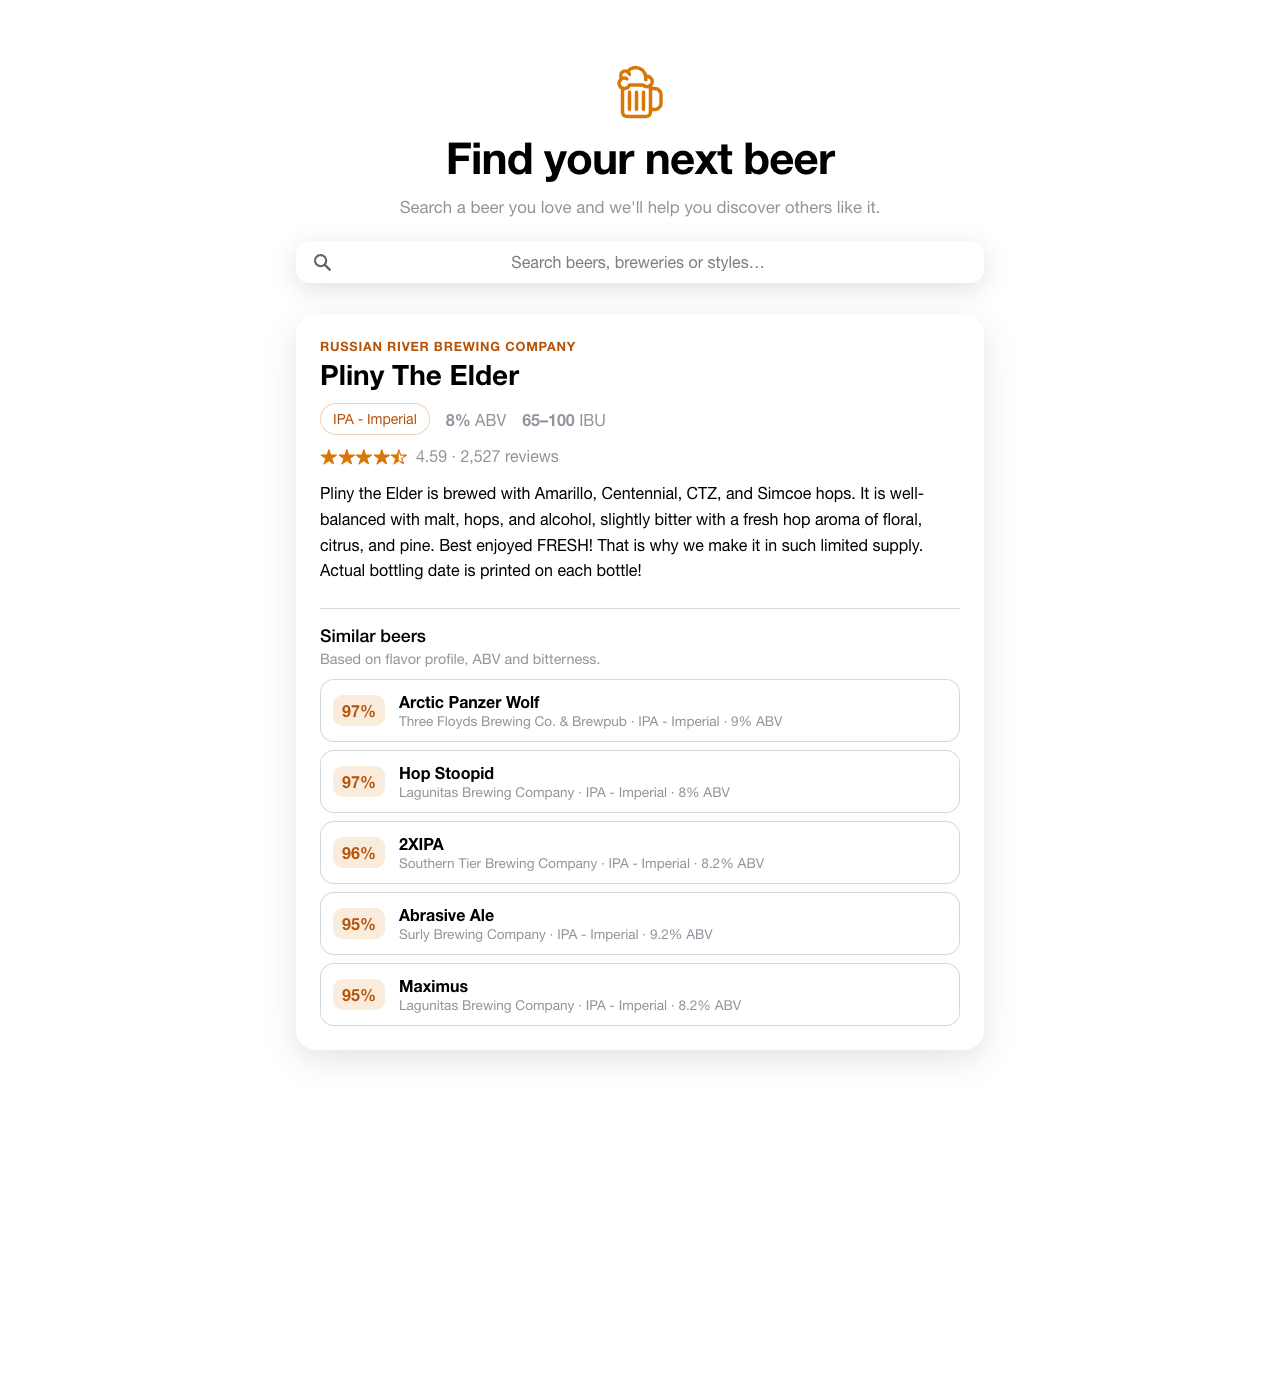
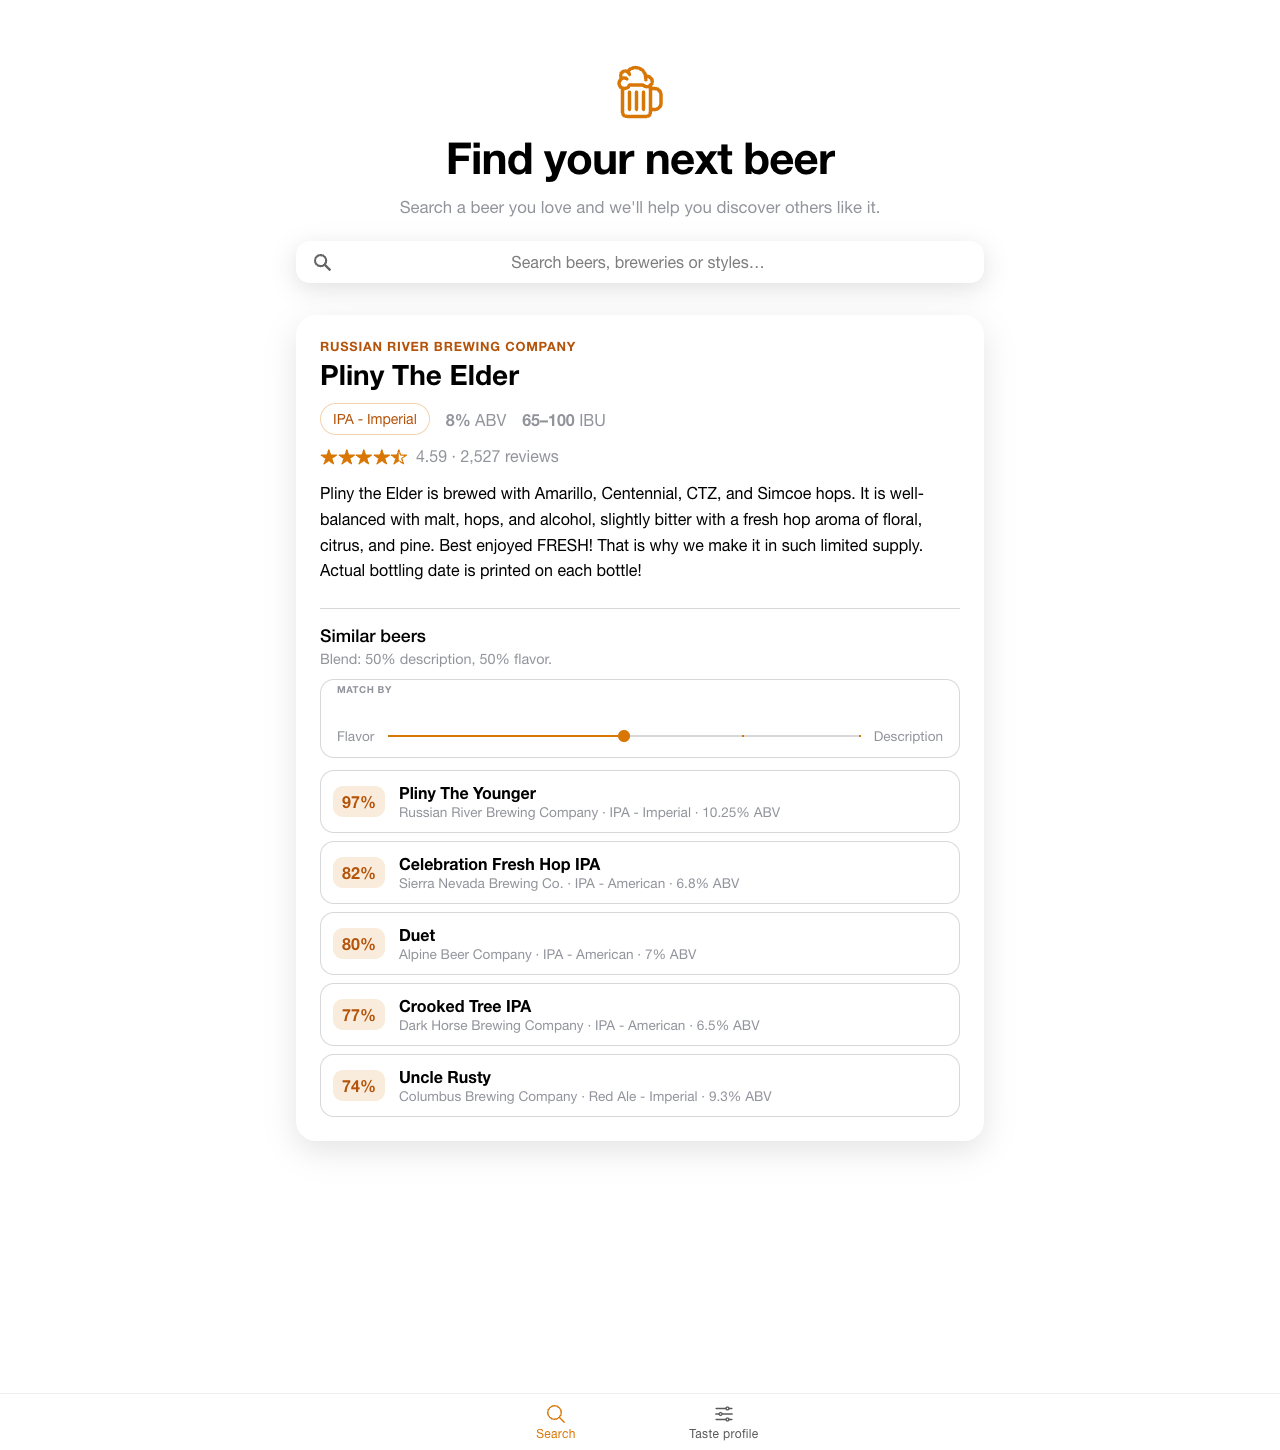
Prepare the live demo: GitHub Pages deploy, app title, README refresh (#7)
- Deploy workflow: on every push to main, run the unit tests, build with
  base /BeerRecommender/ and publish to GitHub Pages (404.html serves
  deep links like /taste).
- Vite base and router basename come from BASE_PATH, so local dev at /
  is unchanged.
- Name the app BeerRecommender in the tab title and manifest.
- README: live demo link, new screenshots (search, blended
  recommendations, taste profile), updated features and structure,
  dataset credit, and notebook setup via requirements.txt.

diff --git a/beerRecommenderApp/index.html b/beerRecommenderApp/index.html
@@ -2,9 +2,8 @@
 <html lang="en">
   <head>
     <meta charset="utf-8" />
-    <title>Ionic App</title>
-    
-    <base href="/" />
+    <title>BeerRecommender</title>
+    <meta name="description" content="Find your next beer: similar-beer recommendations by flavor, ABV and bitterness, plus a taste-profile explorer." />
     
     <meta name="color-scheme" content="light dark" />
     <meta
@@ -19,8 +18,9 @@
     <link rel="shortcut icon" type="image/png" href="/favicon.png" />
     
     <!-- add to homescreen for ios -->
+    <meta name="mobile-web-app-capable" content="yes" />
     <meta name="apple-mobile-web-app-capable" content="yes" />
-    <meta name="apple-mobile-web-app-title" content="Ionic App" />
+    <meta name="apple-mobile-web-app-title" content="BeerRecommender" />
     <meta name="apple-mobile-web-app-status-bar-style" content="black" />
   </head>
   <body>

diff --git a/beerRecommenderApp/vite.config.ts b/beerRecommenderApp/vite.config.ts
@@ -4,6 +4,8 @@ import { defineConfig } from 'vite'
 
 // https://vitejs.dev/config/
 export default defineConfig({
+  // GitHub Pages serves the app from /BeerRecommender/; the deploy workflow sets BASE_PATH.
+  base: process.env.BASE_PATH ?? '/',
   plugins: [
     react(),
     legacy()

diff --git a/beerRecommenderApp/src/App.tsx b/beerRecommenderApp/src/App.tsx
@@ -37,7 +37,7 @@ setupIonicReact();
 
 const App: React.FC = () => (
   <IonApp>
-    <IonReactRouter>
+    <IonReactRouter basename={import.meta.env.BASE_URL}>
       <IonTabs>
         <IonRouterOutlet>
           <Route exact path="/home">

diff --git a/README.md b/README.md
@@ -1,21 +1,27 @@
 # Beer Recommender
 
-Search for a beer you like and get recommendations for similar beers based on flavor profile, ABV and bitterness. The project has two parts: a Jupyter notebook for data exploration and recommender experiments, and an Ionic + React app that lets you search the beers and see recommendations.
+Search for a beer you like and get recommendations for similar beers based on flavor profile, ABV and bitterness, or describe what you're in the mood for and see the beers that fit. The project has two parts: a Jupyter notebook for data exploration and recommender experiments, and an Ionic + React app that runs the recommenders in the browser.
+
+**Live demo: https://martineza96.github.io/BeerRecommender/**
 
 ## Screenshots
 
-| Home | Search | Recommendations |
+| Search | Recommendations | Taste profile |
 |---|---|---|
-| ![Home page with search bar and popular beers](docs/screenshots/home.png) | ![Searching "coors" shows every Coors beer](docs/screenshots/search.png) | ![Pliny The Elder with five similar beers](docs/screenshots/recommendations.png) |
+| ![Searching "coors" shows every Coors beer](docs/screenshots/search.png) | ![Pliny The Elder with five similar beers, blending flavor and description matches](docs/screenshots/recommendations.png) | ![Taste profile with Strength and Bitterness turned up, showing strong, bitter beers](docs/screenshots/taste-profile.png) |
 
 ## Features
 
 - **Forgiving search** across beer name, brewery and style. Partial words work ("blue mo"), accents are ignored ("munster" finds Münster), and common spellings match ("bud lite" finds Bud Light). The most-reviewed beers are listed first.
 - **Beer details**: style, ABV, IBU range, rating and description.
 - **Similar beers**: the 5 closest beers by cosine similarity on standardized ABV, IBU and 11 flavor-profile features. It's computed in the browser and gives the same results as the notebook.
-- Popular-beer shortcuts, keyboard navigation, and light and dark themes.
+- **Match by flavor or description**: a slider blends the flavor recommender with a description recommender (TF-IDF on each beer's description, exported from the notebook's method by `scripts/export_description_similarity.py`). Beers without a description fall back to flavor matches.
+- **Taste profile**: five sliders (Strength, Bitterness, Body, Sweetness, Sourness) and the best-matching beers update as you drag. Sliders work in percentiles, so the middle is a typical beer; any feature can be set to "Doesn't matter".
+- Popular-beer shortcuts, keyboard navigation, a Search / Taste profile tab bar, and light and dark themes.
 
 ## Data
+
+The beer data comes from the *Beer Profile and Ratings Data Set* on Kaggle.
 
 | File | Contents |
 |---|---|
@@ -23,18 +29,25 @@ Search for a beer you like and get recommendations for similar beers based on fl
 | `Beer Name Fuzzy Match List.csv`, `Brewery Name Fuzzy Match List.csv` | Name mappings used when matching beers and breweries across sources |
 | `Beer Descriptors Simplified.xlsx` | Vocabulary of flavor descriptor words |
 | `beerRecommenderApp/src/data/beersDF.json` | The dataset exported from the notebook for use in the app |
+| `beerRecommenderApp/src/data/descriptionNeighbors.json` | Top 10 description (TF-IDF) neighbors per beer, generated by `scripts/export_description_similarity.py` |
 
 ## Project structure
 
 ```
-BeerEDA.ipynb                 EDA, TF-IDF description recommender, feature recommender
-beerRecommenderApp/           Ionic 7 + React 18 + Vite + TypeScript app
-  src/data/beers.ts           Typed, cleaned beer data
-  src/utils/searchBeers.ts    Search and ranking
-  src/utils/recommend.ts      Feature-based similar-beer recommendations
-  src/components/BeerSearch   Search bar with dropdown results
-  src/pages/Home.tsx          Home page
-docs/screenshots/             README images
+BeerEDA.ipynb                        EDA, TF-IDF description recommender, feature recommender
+scripts/export_description_similarity.py   Exports description neighbors for the app
+requirements.txt                     Python libraries for the notebook and scripts
+beerRecommenderApp/                  Ionic 7 + React 18 + Vite + TypeScript app
+  src/data/beers.ts                  Typed, cleaned beer data
+  src/utils/searchBeers.ts           Search and ranking
+  src/utils/recommend.ts             Similar beers: flavor similarity, optionally blended with description
+  src/utils/descriptionSimilarity.ts Description-neighbor lookup
+  src/utils/tasteProfile.ts          Percentile matching for the Taste profile sliders
+  src/components/BeerSearch          Search bar with dropdown results
+  src/pages/Home.tsx                 Search page with beer details
+  src/pages/TasteProfile.tsx         Taste profile page
+.github/workflows/deploy.yml         Tests, builds and publishes the live demo to GitHub Pages
+docs/screenshots/                    README images
 ```
 
 ## Getting started
@@ -55,8 +68,10 @@ Other scripts: `npm run build` (type-check and production build), `npx vitest ru
 ### Run the notebook
 
 ```bash
-pip install pandas numpy matplotlib scikit-learn nltk jupyter
-jupyter notebook BeerEDA.ipynb
+python3 -m venv .venv
+.venv/bin/pip install -r requirements.txt
+.venv/bin/python -m nltk.downloader stopwords wordnet punkt punkt_tab
+.venv/bin/jupyter notebook BeerEDA.ipynb
 ```
 
 ## Status
